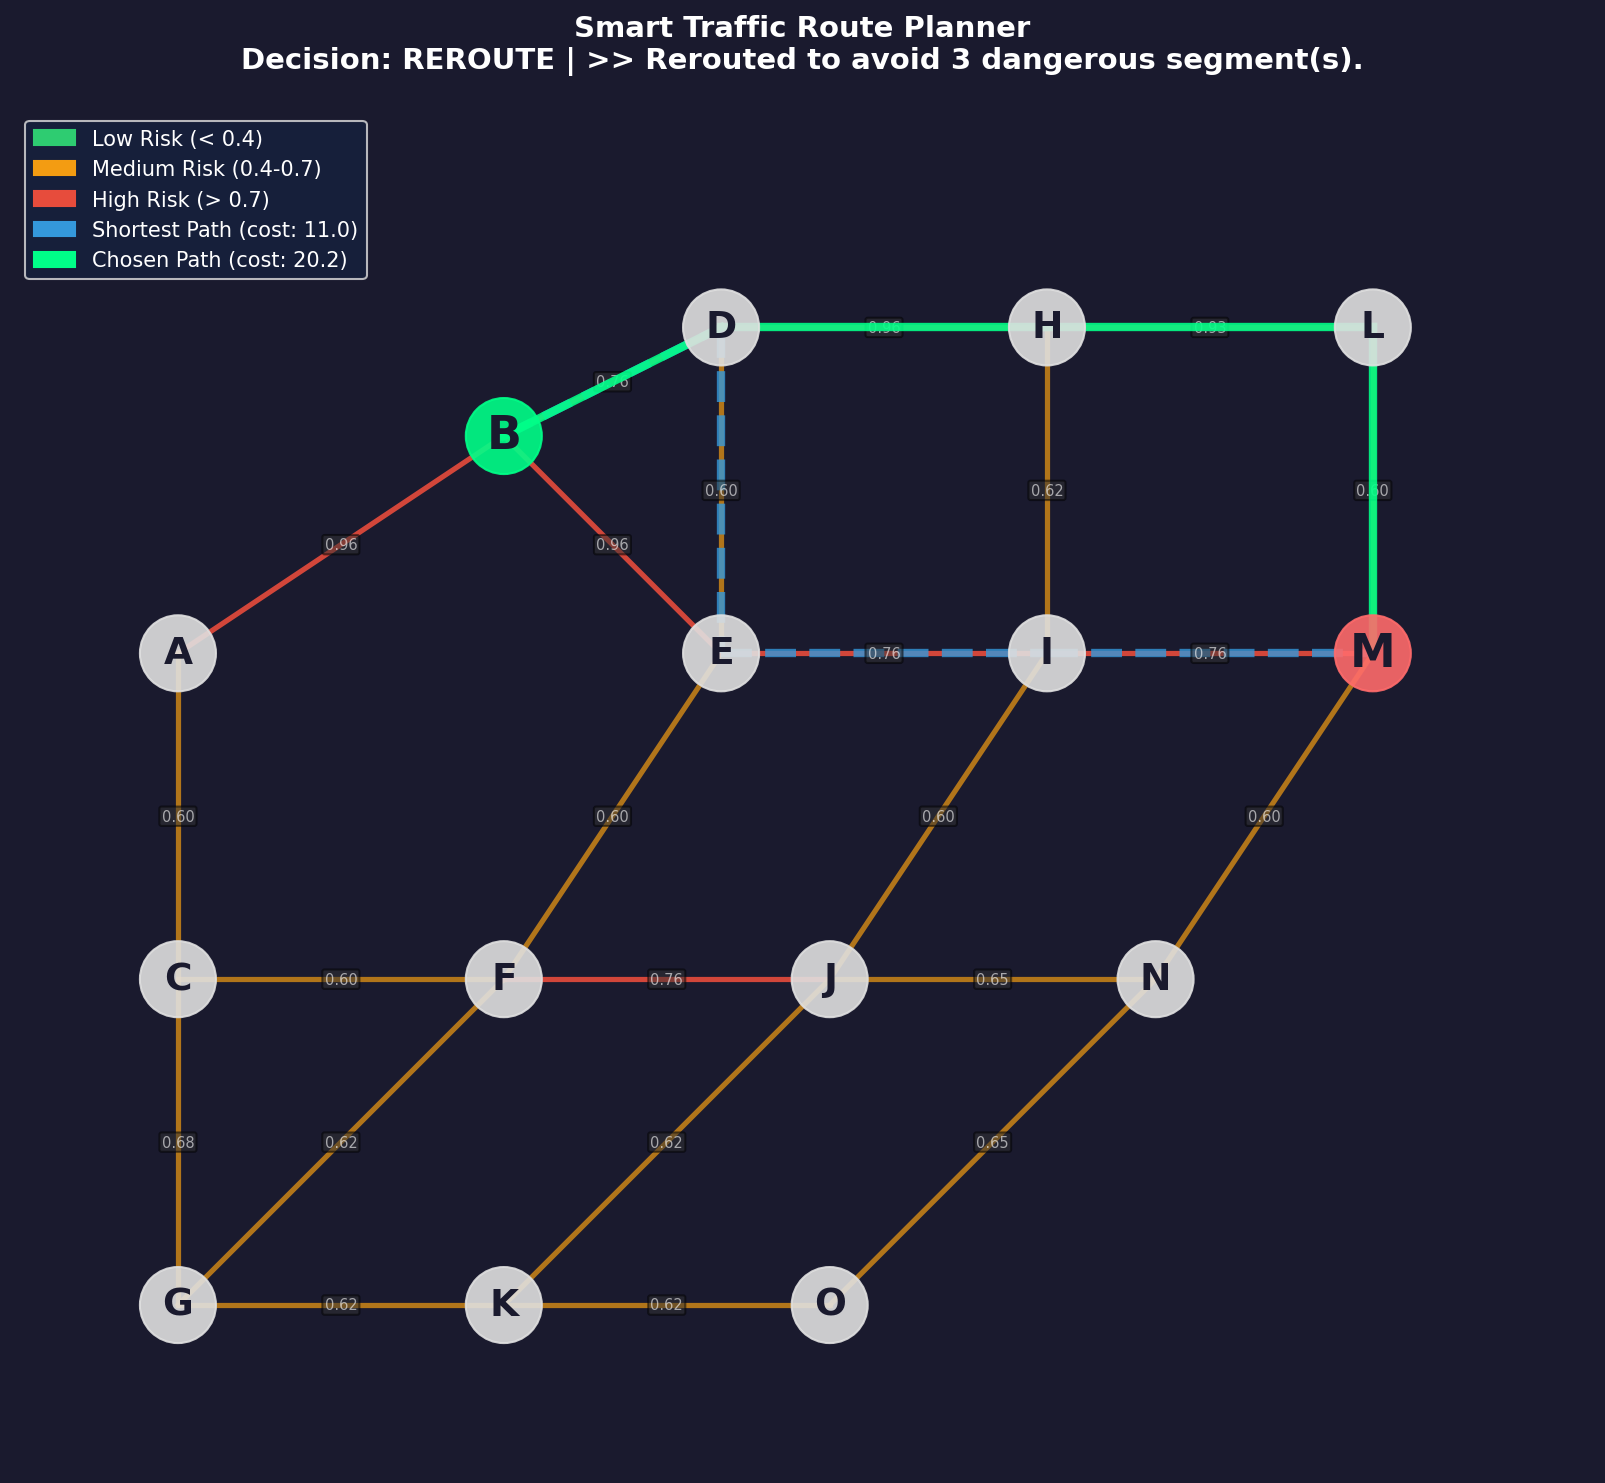
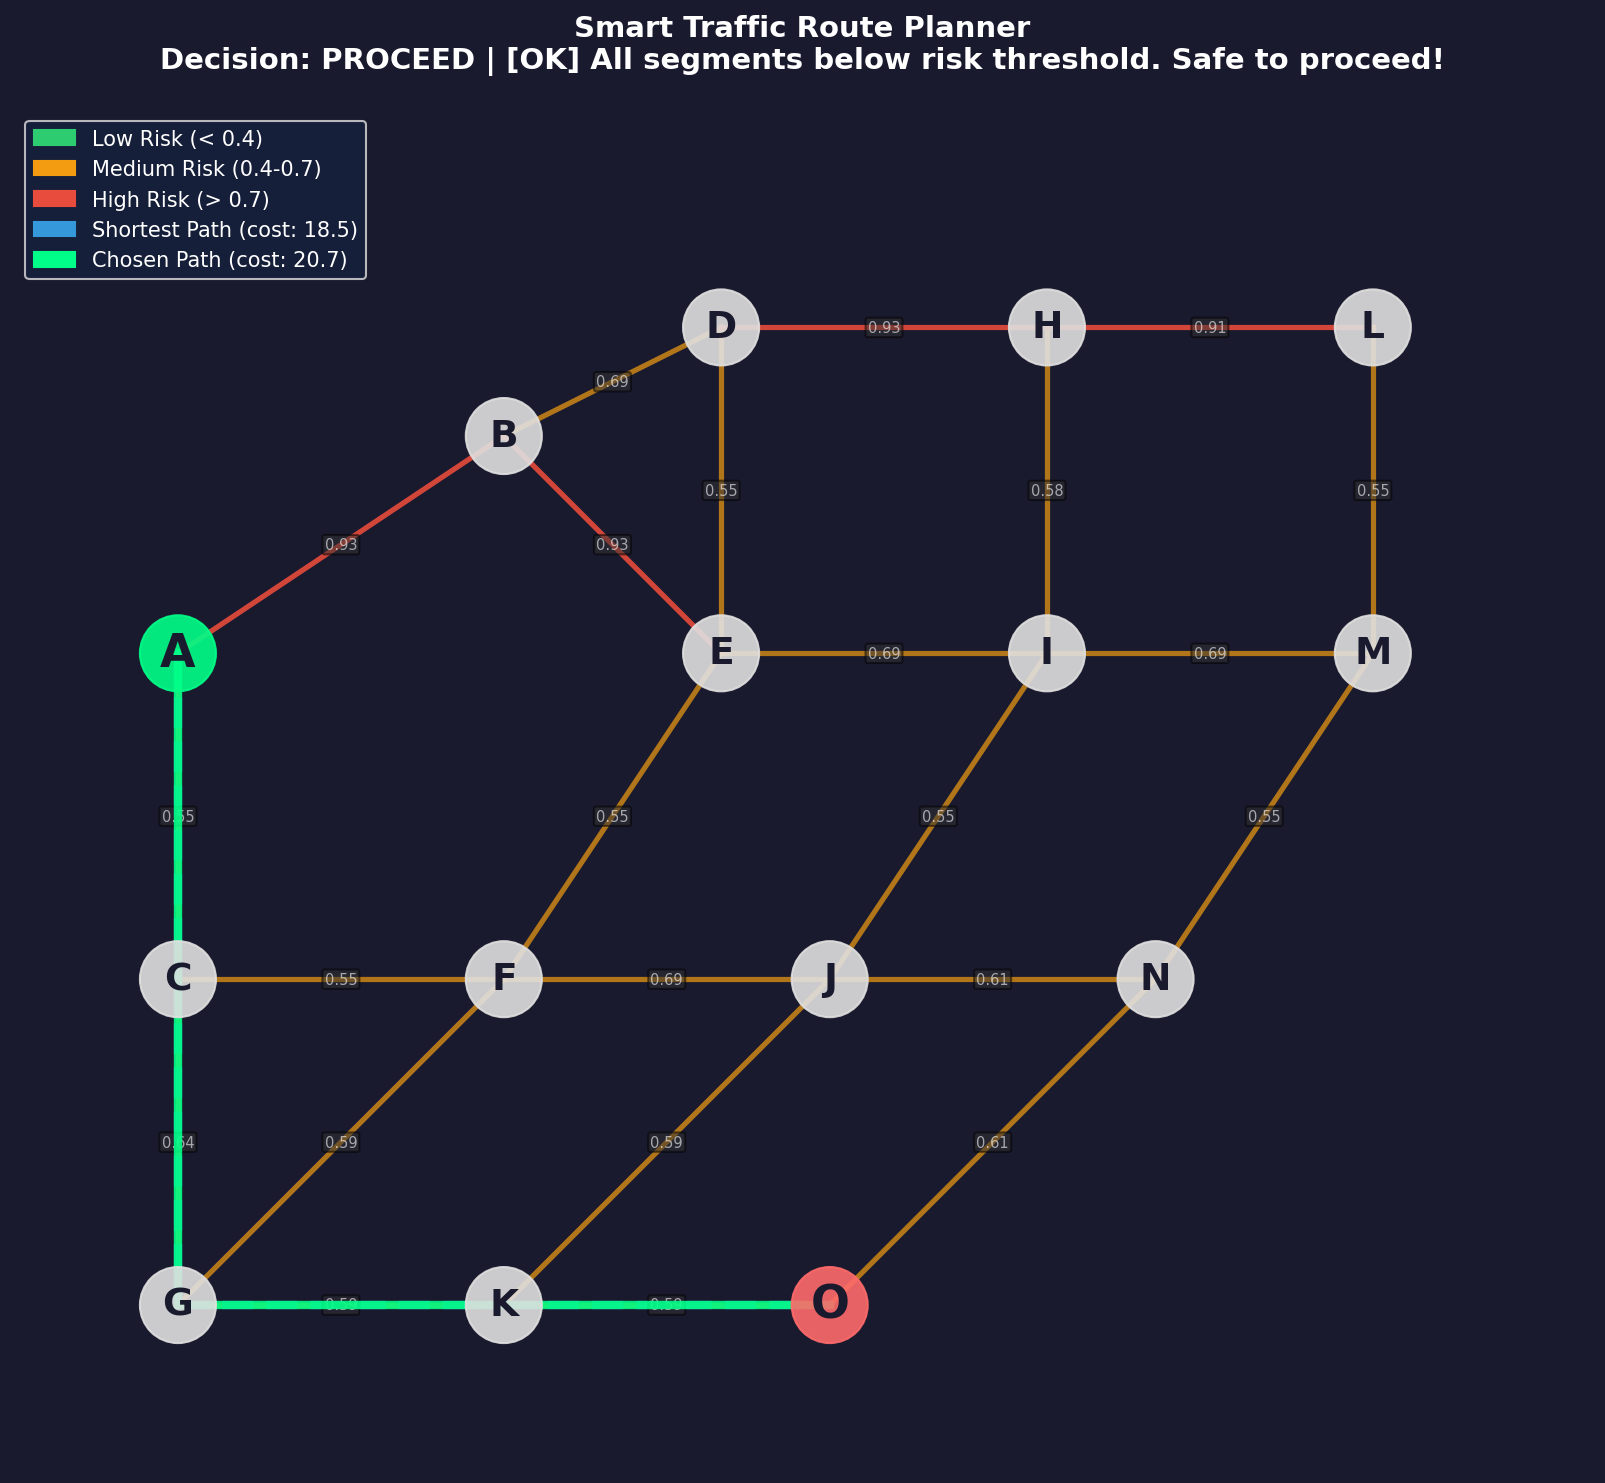
Add result graphs, gitignore, fix sklearn warning in risk_routing.py

diff --git a/src/generate_graphs.py b/src/generate_graphs.py
@@ -1,0 +1,188 @@
+"""
+Generates 3 visual graphs for the project:
+  1. Model Comparison Bar Chart (MSE, RMSE, R2)
+  2. Risk Distribution Histogram
+  3. Feature Importance from Gradient Boosting
+Run: python src/generate_graphs.py
+"""
+
+import sys, os
+sys.path.insert(0, os.path.dirname(os.path.abspath(__file__)))
+
+import pandas as pd
+import numpy as np
+import matplotlib.pyplot as plt
+import matplotlib.patches as mpatches
+import joblib
+from sklearn.preprocessing import LabelEncoder
+from sklearn.model_selection import train_test_split
+from sklearn.linear_model import LinearRegression
+from sklearn.preprocessing import PolynomialFeatures
+from sklearn.pipeline import Pipeline
+from sklearn.ensemble import RandomForestRegressor, GradientBoostingRegressor
+from sklearn.metrics import mean_squared_error, r2_score
+
+# ── paths ──────────────────────────────────────────────────────────────────
+project_root = os.path.dirname(os.path.dirname(os.path.abspath(__file__)))
+data_path    = os.path.join(project_root, 'data', 'road_risk_data.csv')
+model_dir    = os.path.join(project_root, 'models')
+out_dir      = project_root          # save PNGs next to main.py
+
+plt.rcParams.update({'figure.facecolor': '#1a1a2e', 'axes.facecolor': '#16213e',
+                     'axes.labelcolor': 'white', 'xtick.color': 'white',
+                     'ytick.color': 'white', 'text.color': 'white',
+                     'axes.titlecolor': 'white', 'grid.color': '#333355'})
+
+# ── load & encode data ──────────────────────────────────────────────────────
+df = pd.read_csv(data_path)
+le_road    = LabelEncoder().fit(df['road_type'])
+le_weather = LabelEncoder().fit(df['weather'])
+df['road_type_enc'] = le_road.transform(df['road_type'])
+df['weather_enc']   = le_weather.transform(df['weather'])
+
+features = ['road_type_enc','hour_of_day','day_of_week','weather_enc',
+            'traffic_density','speed_limit','has_signal','num_lanes']
+X = df[features]
+y = df['accident_risk']
+X_train, X_test, y_train, y_test = train_test_split(X, y, test_size=0.2, random_state=42)
+
+# ── train 4 models ─────────────────────────────────────────────────────────
+models = {
+    'Linear\nRegression': LinearRegression(),
+    'Polynomial\n(deg=2)': Pipeline([('poly', PolynomialFeatures(degree=2)),
+                                     ('lr',   LinearRegression())]),
+    'Random\nForest':      RandomForestRegressor(n_estimators=100, random_state=42),
+    'Gradient\nBoosting':  GradientBoostingRegressor(n_estimators=100, random_state=42),
+}
+
+results = {}
+for name, m in models.items():
+    m.fit(X_train, y_train)
+    pred = m.predict(X_test)
+    mse  = mean_squared_error(y_test, pred)
+    r2   = r2_score(y_test, pred)
+    results[name] = {'MSE': round(mse,4), 'RMSE': round(np.sqrt(mse),4), 'R2': round(r2,4)}
+
+names  = list(results.keys())
+mse_v  = [results[n]['MSE']  for n in names]
+rmse_v = [results[n]['RMSE'] for n in names]
+r2_v   = [results[n]['R2']   for n in names]
+
+# ════════════════════════════════════════════════════════════════════════════
+# GRAPH 1 — Model Comparison (3 sub-plots)
+# ════════════════════════════════════════════════════════════════════════════
+fig, axes = plt.subplots(1, 3, figsize=(16, 6))
+fig.suptitle('Model Performance Comparison', fontsize=16, fontweight='bold', y=1.02)
+colors = ['#e74c3c', '#f39c12', '#3498db', '#2ecc71']   # red→orange→blue→green
+
+for ax, values, label, best_low in zip(
+        axes,
+        [mse_v, rmse_v, r2_v],
+        ['MSE (lower is better)', 'RMSE (lower is better)', 'R² Score (higher is better)'],
+        [True, True, False]):
+
+    bars = ax.bar(names, values, color=colors, width=0.5, edgecolor='white', linewidth=0.5)
+    ax.set_title(label, fontsize=11, pad=10)
+    ax.set_ylim(0, max(values) * 1.25)
+    ax.grid(axis='y', alpha=0.3)
+    ax.spines[['top','right','left','bottom']].set_visible(False)
+
+    # annotate bars
+    for bar, val in zip(bars, values):
+        ax.text(bar.get_x() + bar.get_width()/2, bar.get_height() + max(values)*0.02,
+                f'{val:.4f}', ha='center', va='bottom', fontsize=9, fontweight='bold')
+
+    # highlight best bar
+    best_idx = values.index(min(values) if best_low else max(values))
+    bars[best_idx].set_edgecolor('gold')
+    bars[best_idx].set_linewidth(2.5)
+    ax.text(bars[best_idx].get_x() + bars[best_idx].get_width()/2,
+            -max(values)*0.08, 'BEST', ha='center', color='gold', fontsize=9, fontweight='bold')
+
+plt.tight_layout()
+p1 = os.path.join(out_dir, 'graph_model_comparison.png')
+plt.savefig(p1, dpi=150, bbox_inches='tight', facecolor='#1a1a2e')
+plt.close()
+print(f'[OK] Saved: graph_model_comparison.png')
+
+# ════════════════════════════════════════════════════════════════════════════
+# GRAPH 2 — Risk Score Distribution by Road Type
+# ════════════════════════════════════════════════════════════════════════════
+fig, axes = plt.subplots(1, 2, figsize=(14, 6))
+fig.suptitle('Accident Risk Distribution Analysis', fontsize=15, fontweight='bold')
+
+# left: histogram
+ax = axes[0]
+ax.hist(df['accident_risk'], bins=30, color='#3498db', edgecolor='#1a1a2e', alpha=0.85)
+ax.axvline(0.7, color='#e74c3c', linewidth=2, linestyle='--', label='Danger Threshold (0.7)')
+ax.axvline(df['accident_risk'].mean(), color='#f39c12', linewidth=2,
+           linestyle='--', label=f'Mean ({df["accident_risk"].mean():.2f})')
+ax.set_xlabel('Accident Risk Score')
+ax.set_ylabel('Number of Road Samples')
+ax.set_title('Overall Risk Distribution (800 samples)')
+ax.legend(fontsize=9)
+ax.grid(axis='y', alpha=0.3)
+
+# right: boxplot per road type
+ax = axes[1]
+road_types = ['highway', 'main_road', 'residential', 'lane']
+type_colors = ['#e74c3c', '#f39c12', '#2ecc71', '#3498db']
+data_by_type = [df[df['road_type'] == rt]['accident_risk'].values for rt in road_types]
+bp = ax.boxplot(data_by_type, patch_artist=True, widths=0.5,
+                medianprops=dict(color='white', linewidth=2))
+for patch, color in zip(bp['boxes'], type_colors):
+    patch.set_facecolor(color)
+    patch.set_alpha(0.8)
+for element in ['whiskers','caps','fliers']:
+    for item in bp[element]:
+        item.set_color('white')
+ax.set_xticklabels(['Highway', 'Main Road', 'Residential', 'Lane'])
+ax.set_ylabel('Accident Risk Score')
+ax.set_title('Risk by Road Type')
+ax.axhline(0.7, color='#e74c3c', linewidth=1.5, linestyle='--', alpha=0.7)
+ax.grid(axis='y', alpha=0.3)
+
+plt.tight_layout()
+p2 = os.path.join(out_dir, 'graph_risk_distribution.png')
+plt.savefig(p2, dpi=150, bbox_inches='tight', facecolor='#1a1a2e')
+plt.close()
+print(f'[OK] Saved: graph_risk_distribution.png')
+
+# ════════════════════════════════════════════════════════════════════════════
+# GRAPH 3 — Feature Importance (Gradient Boosting)
+# ════════════════════════════════════════════════════════════════════════════
+gb_model = joblib.load(os.path.join(model_dir, 'risk_model.pkl'))
+feat_names  = ['Road Type', 'Hour of Day', 'Day of Week', 'Weather',
+               'Traffic Density', 'Speed Limit', 'Has Signal', 'Num Lanes']
+importances = gb_model.feature_importances_
+sorted_idx  = np.argsort(importances)
+
+fig, ax = plt.subplots(figsize=(10, 6))
+bar_colors = ['#2ecc71' if i < 4 else '#e74c3c' for i in range(len(importances))]
+bar_colors_sorted = [bar_colors[i] for i in sorted_idx]
+bars = ax.barh([feat_names[i] for i in sorted_idx], importances[sorted_idx],
+               color=bar_colors_sorted, edgecolor='white', linewidth=0.4)
+for bar, val in zip(bars, importances[sorted_idx]):
+    ax.text(val + 0.002, bar.get_y() + bar.get_height()/2,
+            f'{val:.3f}', va='center', fontsize=9)
+ax.set_xlabel('Feature Importance Score')
+ax.set_title('Feature Importance — Gradient Boosting Model\n(which inputs affect accident risk most?)',
+             fontsize=12, fontweight='bold')
+ax.set_xlim(0, max(importances) * 1.2)
+ax.grid(axis='x', alpha=0.3)
+ax.spines[['top','right','bottom']].set_visible(False)
+legend = [mpatches.Patch(color='#e74c3c', label='High importance'),
+          mpatches.Patch(color='#2ecc71', label='Lower importance')]
+ax.legend(handles=legend, loc='lower right')
+
+plt.tight_layout()
+p3 = os.path.join(out_dir, 'graph_feature_importance.png')
+plt.savefig(p3, dpi=150, bbox_inches='tight', facecolor='#1a1a2e')
+plt.close()
+print(f'[OK] Saved: graph_feature_importance.png')
+
+print('\n[DONE] All 3 graphs generated:')
+print(f'  1. graph_model_comparison.png')
+print(f'  2. graph_risk_distribution.png')
+print(f'  3. graph_feature_importance.png')
+print('Open them with: start graph_model_comparison.png')

diff --git a/src/risk_routing.py b/src/risk_routing.py
@@ -16,6 +16,7 @@
 
 import joblib
 import numpy as np
+import pandas as pd
 import os
 
 # ---- Load trained model and encoders ----
@@ -76,18 +77,18 @@ def predict_edge_risk(node_a, node_b, edge_metadata):
         if risk_model is None:
             return 0.5  # fallback
 
-    features = [
-        le_road.transform([edge_metadata['road_type']])[0],
-        current_conditions['hour_of_day'],
-        current_conditions['day_of_week'],
-        le_weather.transform([current_conditions['weather']])[0],
-        current_conditions['traffic_density'],
-        edge_metadata['speed_limit'],
-        edge_metadata['has_signal'],
-        edge_metadata['num_lanes'],
-    ]
-
-    prediction = risk_model.predict([features])[0]
+    feature_dict = {
+        'road_type':       [le_road.transform([edge_metadata['road_type']])[0]],
+        'hour_of_day':     [current_conditions['hour_of_day']],
+        'day_of_week':     [current_conditions['day_of_week']],
+        'weather':         [le_weather.transform([current_conditions['weather']])[0]],
+        'traffic_density': [current_conditions['traffic_density']],
+        'speed_limit':     [edge_metadata['speed_limit']],
+        'has_signal':      [edge_metadata['has_signal']],
+        'num_lanes':       [edge_metadata['num_lanes']],
+    }
+    df_input = pd.DataFrame(feature_dict)
+    prediction = risk_model.predict(df_input)[0]
     return float(np.clip(prediction, 0.0, 1.0))
 
 
